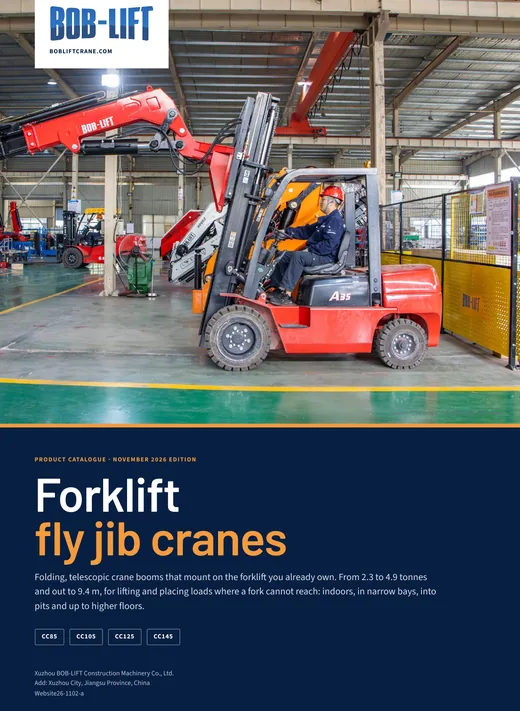
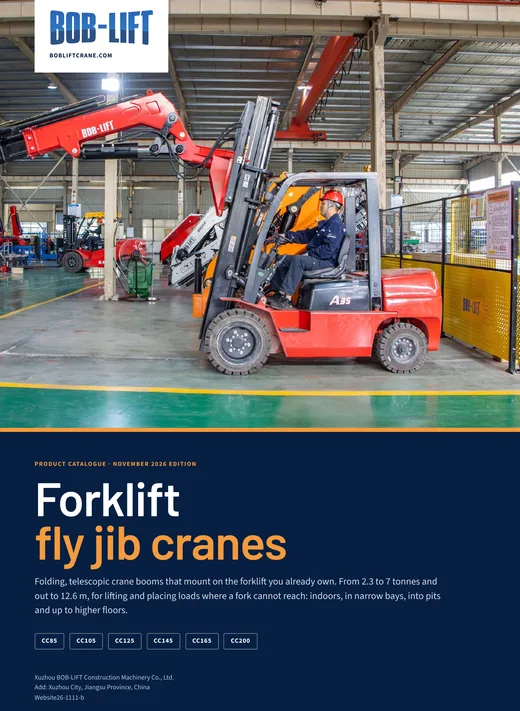
content(brochures): forklift catalogue card lists the CC165 and CC200, 2.3 to 7 t (#280)
The forklift fly jib catalogue is now edition Website26-1111-b (10 pages) with the 7 t CC165 and CC200. The catalogue card text in all 7 languages lists both models and the 2.3 to 7 t range, and the page count shown is 10.

diff --git a/inc/translations/brochures.php b/inc/translations/brochures.php
@@ -22,7 +22,7 @@ return [
         'Electric Mini Cranes Brochure' => '電動ミニクレーン カタログ',
         'SQ1Z-E and SQ2Z-E electric mini cranes, 1 and 2 ton, with load charts, bolt patterns and remote or lever control.' => 'SQ1Z-E・SQ2Z-E 電動ミニクレーン（1 トン・2 トン）を、荷重表、ボルト配置図、リモコン／レバー操作とともに掲載しています。',
         'Forklift Fly Jib Cranes Brochure' => 'フォークリフト用フライジブクレーン カタログ',
-        'CC85, CC105, CC125 and CC145 forklift fly jib cranes, 2.3 to 4.9 ton, with load charts, matching forklifts and lifting heights.' => 'フォークリフト用フライジブクレーン CC85・CC105・CC125・CC145（2.3～4.9 トン）を、荷重表、対応フォークリフト、揚程とともに掲載しています。',
+        'CC85, CC105, CC125, CC145, CC165 and CC200 forklift fly jib cranes, 2.3 to 7 ton, with load charts, matching forklifts and lifting heights.' => 'フォークリフト用フライジブクレーン CC85・CC105・CC125・CC145・CC165・CC200（2.3～7 トン）を、荷重表、対応フォークリフト、揚程とともに掲載しています。',
     ],
     'zh' => [
         'Get a quote for this range' => '按这本手册询价',
@@ -46,34 +46,34 @@ return [
         'Electric Mini Cranes Brochure' => '电动小吊机产品册',
         'SQ1Z-E and SQ2Z-E electric mini cranes, 1 and 2 ton, with load charts, bolt patterns and remote or lever control.' => 'SQ1Z-E、SQ2Z-E 电动小吊机（1 吨、2 吨），附起重性能表、安装螺栓图，可选遥控或手柄操作。',
         'Forklift Fly Jib Cranes Brochure' => '叉车飞臂起重机产品册',
-        'CC85, CC105, CC125 and CC145 forklift fly jib cranes, 2.3 to 4.9 ton, with load charts, matching forklifts and lifting heights.' => 'CC85、CC105、CC125、CC145 叉车飞臂起重机（2.3–4.9 吨），附起重性能表、适配叉车和起升高度。',
+        'CC85, CC105, CC125, CC145, CC165 and CC200 forklift fly jib cranes, 2.3 to 7 ton, with load charts, matching forklifts and lifting heights.' => 'CC85、CC105、CC125、CC145、CC165、CC200 叉车飞臂起重机（2.3–7 吨），附起重性能表、适配叉车和起升高度。',
     ],
     'es' => [
         'Get a quote for this range' => 'Solicita un presupuesto para esta gama',
         'Electric Mini Cranes Brochure' => 'Folleto de minigrúas eléctricas',
         'SQ1Z-E and SQ2Z-E electric mini cranes, 1 and 2 ton, with load charts, bolt patterns and remote or lever control.' => 'Minigrúas eléctricas SQ1Z-E y SQ2Z-E, de 1 y 2 toneladas, con tablas de carga, esquemas de fijación y mando a distancia o mediante palanca.',
         'Forklift Fly Jib Cranes Brochure' => 'Folleto de grúas con plumín para carretilla elevadora',
-        'CC85, CC105, CC125 and CC145 forklift fly jib cranes, 2.3 to 4.9 ton, with load charts, matching forklifts and lifting heights.' => 'Grúas con plumín para carretilla elevadora CC85, CC105, CC125 y CC145, de 2,3 a 4,9 toneladas, con tablas de carga, carretillas compatibles y alturas de elevación.',
+        'CC85, CC105, CC125, CC145, CC165 and CC200 forklift fly jib cranes, 2.3 to 7 ton, with load charts, matching forklifts and lifting heights.' => 'Grúas con plumín para carretilla elevadora CC85, CC105, CC125, CC145, CC165 y CC200, de 2,3 a 7 toneladas, con tablas de carga, carretillas compatibles y alturas de elevación.',
     ],
     'fr' => [
         'Get a quote for this range' => 'Demandez un devis pour cette gamme',
         'Electric Mini Cranes Brochure' => 'Brochure des mini-grues électriques',
         'SQ1Z-E and SQ2Z-E electric mini cranes, 1 and 2 ton, with load charts, bolt patterns and remote or lever control.' => 'Mini-grues électriques SQ1Z-E et SQ2Z-E, d\'une capacité de 1 et 2 tonnes, avec tableaux de charge, gabarits de boulonnage et commande à distance ou par levier.',
         'Forklift Fly Jib Cranes Brochure' => 'Brochure des grues fly jib pour chariot élévateur',
-        'CC85, CC105, CC125 and CC145 forklift fly jib cranes, 2.3 to 4.9 ton, with load charts, matching forklifts and lifting heights.' => 'Grues fly jib pour chariot élévateur CC85, CC105, CC125 et CC145, de 2,3 à 4,9 tonnes, avec tableaux de charge, chariots élévateurs compatibles et hauteurs de levage.',
+        'CC85, CC105, CC125, CC145, CC165 and CC200 forklift fly jib cranes, 2.3 to 7 ton, with load charts, matching forklifts and lifting heights.' => 'Grues fly jib pour chariot élévateur CC85, CC105, CC125, CC145, CC165 et CC200, de 2,3 à 7 tonnes, avec tableaux de charge, chariots élévateurs compatibles et hauteurs de levage.',
     ],
     'ru' => [
         'Get a quote for this range' => 'Получить расценки на эту серию',
         'Electric Mini Cranes Brochure' => 'Брошюра: электрические мини-краны',
         'SQ1Z-E and SQ2Z-E electric mini cranes, 1 and 2 ton, with load charts, bolt patterns and remote or lever control.' => 'Электрические мини-краны SQ1Z-E и SQ2Z-E грузоподъемностью 1 и 2 тонны, с таблицами грузоподъемности, схемами расположения болтов и дистанционным или рычажным управлением.',
         'Forklift Fly Jib Cranes Brochure' => 'Брошюра: краны флай-джиб для вилочных погрузчиков',
-        'CC85, CC105, CC125 and CC145 forklift fly jib cranes, 2.3 to 4.9 ton, with load charts, matching forklifts and lifting heights.' => 'Краны флай-джиб для вилочных погрузчиков CC85, CC105, CC125 и CC145 грузоподъемностью от 2,3 до 4,9 т, с таблицами грузоподъемности, подходящими погрузчиками и высотой подъема.',
+        'CC85, CC105, CC125, CC145, CC165 and CC200 forklift fly jib cranes, 2.3 to 7 ton, with load charts, matching forklifts and lifting heights.' => 'Краны флай-джиб для вилочных погрузчиков CC85, CC105, CC125, CC145, CC165 и CC200 грузоподъемностью от 2,3 до 7 т, с таблицами грузоподъемности, подходящими погрузчиками и высотой подъема.',
     ],
     'ar' => [
         'Get a quote for this range' => 'احصل على عرض أسعار لهذه المجموعة',
         'Electric Mini Cranes Brochure' => 'كتيب الرافعات الكهربائية الصغيرة',
         'SQ1Z-E and SQ2Z-E electric mini cranes, 1 and 2 ton, with load charts, bolt patterns and remote or lever control.' => 'الرافعات الكهربائية الصغيرة من طرازي SQ1Z-E وSQ2Z-E، بسعة 1 و2 طن، مزودة بجداول الحمولة، وأنماط تثبيت البراغي، والتحكم عن بُعد أو بواسطة ذراع التحكم.',
         'Forklift Fly Jib Cranes Brochure' => 'كتيب رافعات بذراع فلاي جيب للرافعة الشوكية',
-        'CC85, CC105, CC125 and CC145 forklift fly jib cranes, 2.3 to 4.9 ton, with load charts, matching forklifts and lifting heights.' => 'رافعات بذراع فلاي جيب للرافعة الشوكية من طرازات CC85 وCC105 وCC125 وCC145، بسعة من 2.3 إلى 4.9 طن، مع جداول الحمولة والرافعات الشوكية المناسبة وارتفاعات الرفع.',
+        'CC85, CC105, CC125, CC145, CC165 and CC200 forklift fly jib cranes, 2.3 to 7 ton, with load charts, matching forklifts and lifting heights.' => 'رافعات بذراع فلاي جيب للرافعة الشوكية من طرازات CC85 وCC105 وCC125 وCC145 وCC165 وCC200، بسعة من 2.3 إلى 7 طن، مع جداول الحمولة والرافعات الشوكية المناسبة وارتفاعات الرفع.',
     ],
 ];

diff --git a/inc/brochures.php b/inc/brochures.php
@@ -17,7 +17,7 @@ function boblift_brochure_files(): array
         'marine' => ['file' => 'bob-lift-marine-cranes-2026.pdf', 'cover' => 'images/brochures/bob-lift-marine-cranes-2026-cover.webp', 'pages' => 12],
         'spider' => ['file' => 'bob-lift-spider-cranes-2026.pdf', 'cover' => 'images/brochures/bob-lift-spider-cranes-2026-cover.webp', 'pages' => 2],
         'electric' => ['attachment' => 'bob-lift-electric-mini-cranes-2026', 'file' => 'bob-lift-electric-mini-cranes-2026.pdf', 'cover' => 'images/brochures/bob-lift-electric-mini-cranes-2026-cover.webp', 'pages' => 8],
-        'forklift' => ['attachment' => 'bob-lift-forklift-fly-jib-cranes-2026', 'file' => 'bob-lift-forklift-fly-jib-cranes-2026.pdf', 'cover' => 'images/brochures/bob-lift-forklift-fly-jib-cranes-2026-cover.webp', 'pages' => 8],
+        'forklift' => ['attachment' => 'bob-lift-forklift-fly-jib-cranes-2026', 'file' => 'bob-lift-forklift-fly-jib-cranes-2026.pdf', 'cover' => 'images/brochures/bob-lift-forklift-fly-jib-cranes-2026-cover.webp', 'pages' => 10],
     ];
 }
 

diff --git a/inc/site-ui-sections/brochures.php b/inc/site-ui-sections/brochures.php
@@ -34,7 +34,7 @@ return [
             ],
             'forklift' => [
                 'title' => 'Forklift Fly Jib Cranes Brochure',
-                'text' => 'CC85, CC105, CC125 and CC145 forklift fly jib cranes, 2.3 to 4.9 ton, with load charts, matching forklifts and lifting heights.',
+                'text' => 'CC85, CC105, CC125, CC145, CC165 and CC200 forklift fly jib cranes, 2.3 to 7 ton, with load charts, matching forklifts and lifting heights.',
             ],
         ],
     ],
